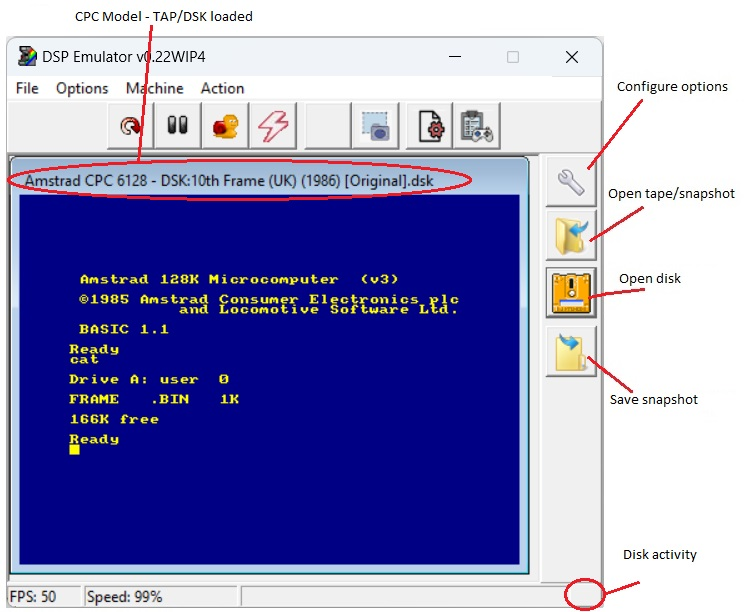
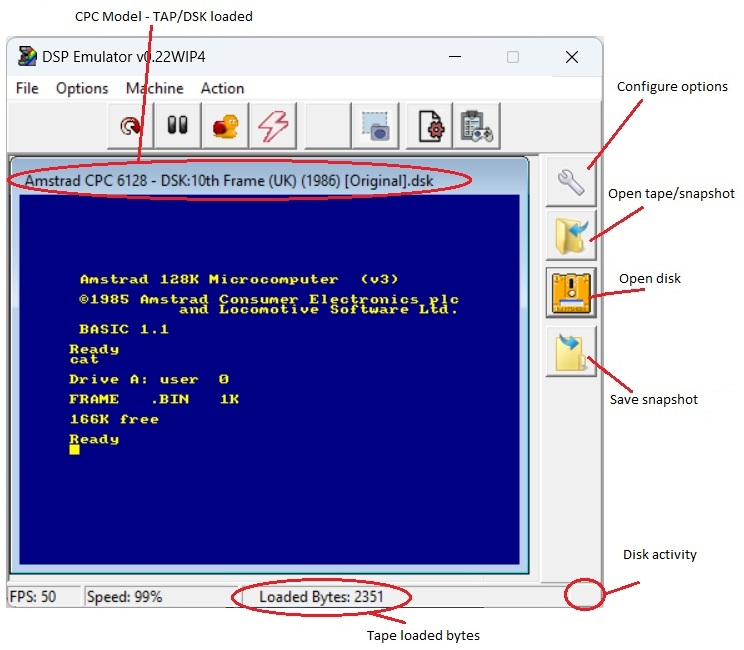
DSP guide v0.004

diff --git a/DSP small guide/DSP Emulator small guide.md b/DSP small guide/DSP Emulator small guide.md
@@ -2,13 +2,14 @@
 
 This is a small guide for use DSP Emulator.<br>
 The emulator is designed to be easy to use, there are no complicated options, everything is designed to be "plug and play".<br>
-Just a couple of definitions:<br>
--ROMs --> It means Read-Only-Memory, it's just a program data, video data, graphics data, etc. recorded in a single chip. Thanks to clever people, this data is extracted (some times it's very hard!) and saved into a file. If you put all files from the game into a zip, you have a 'set', and that's what you need to play a game.<br>
--Samples --> Many older arcade games use analog devices to play sounds and music, this is very hard to emulate, so we use 'samples' (Mario Bros, Donkey Kong, Galaxian...). A sample it's a small piece of recorded sound directly from the arcade, and played at the right moment, it looks like the original sound. Like ROMs, you only need to put them all together in a single zip.
+Just a couple of definitions:
+- ROMs --> It means Read-Only-Memory, it's just a program data, video data, graphics data, etc. recorded in a single chip. Thanks to clever people, this data is extracted (some times it's very hard!) and saved into a file. If you put all files from the game into a zip, you have a 'set', and that's what you need to play a game.
+- Samples --> Many older arcade games use analog devices to play sounds and music, this is very hard to emulate, so we use 'samples' (Mario Bros, Donkey Kong, Galaxian...). A sample it's a small piece of recorded sound directly from the arcade, and played at the right moment, it looks like the original sound. Like ROMs, you only need to put them all together in a single zip.
 
 <b>1-. Main menu</b>
 
 ------
+
 Here you can set the main options, select the arcade game, console, computer to play, redefine controls, video settings...
 
 <img src="dsp_main.jpg" width="50%" height="50%">
@@ -61,7 +62,7 @@ All the options here are the same that you can select in the main menu, except t
 
 <img src="dsp_config2.jpg" width="50%" height="50%">
 
-Here you can select the folder where the need files or the output files will reside.
+Here you can select the folder where the need files or the output files will reside.<br>
 Press the button with three dots '...' for select the new folder.<br>
 On the Arcade option, you can add extra folders, splitted with semicolons, for example 'c:\folder1;d:\roms\folder2'
 
@@ -69,7 +70,7 @@ On the Arcade option, you can add extra folders, splitted with semicolons, for e
 
 <img src="dsp_config3.jpg" width="50%" height="50%">
 
-Here you can select the controls for all systems. If you have joystick(s) connected, you can select the device from the joystick list.
+Here you can select the controls for all systems. If you have joystick(s) connected, you can select the device from the joystick list.<br>
 If keyboard is selected and you want to change a control, just press the button and a new window will be show. Select the key from the virtual keyboard.
 
 <img src="dsp_config_key.jpg" width="50%" height="50%">
@@ -92,7 +93,7 @@ It's useful to check missing ROM files, missing samples, broken files, etc.
 
 Here you can enable/disable autofire.<br>
 Instead of pressing insanely the fire button, you can select autofire and the emulator will make the magic, emulating the repetitive pressing of the button.<br>
-You can enable/disable each button of both players, and applies for any type of control, keyboard or joystick.
+You can enable/disable any button of both players, and applies for any type of control, keyboard or joystick.
 
 
 <b>1.2-. List menu</b>
@@ -107,7 +108,7 @@ You can use the sort options to filter the list:
 - Computers --> Show only computers
 - Consoles --> Show only consoles
 - Game & Watch --> Show W&G games
-- Arcade --> Show arcade games, you can also filter for arcade type
+- Arcade --> Show arcade games, you can also filter for arcade type:
 	+ Sport
 	+ Run & Gun
 	+ Shot
@@ -118,9 +119,9 @@ You can use the sort options to filter the list:
 You can see the availability of the systems ROMs, there are three options
 - Yes --> The ROMs are available, you can play the system
 - No --> The ROMs are not available, you can't play
-- N/A --> The system don't use ROMs, you can play it
+- N/A --> The system don't use ROMs, you can play it, but you need extra files for playing, for example a console cartridge.
 
-On the right side you can see a small info of the selected system and a preview picture
+On the right side you can see a small info of the selected system and a preview picture.
 
 <b>2-. Computers</b>
 
@@ -132,23 +133,37 @@ There are four computer systems that DSP can emulate:
 - Commodore 64
 - Oric series
 
-Commodore and Oric, can only open tapes at this moment, you can go to the 'tape menu' for more info.
+Commodore and Oric, can only open tapes at this moment, you can go to the 'tape menu' for more info about tape window.
 
-<b>2.1-. Spectrum options</b>
+**2.1-. Spectrum options**
 
-------
 <img src="dsp_spectrum.jpg" width="50%" height="50%">
 
 
-<b>2.2-. Amstrad CPC options</b>
+**2.2-. Amstrad CPC options**
 
-------
 <img src="dsp_cpc.jpg" width="50%" height="50%">
 
 
-<b>2.3-. Tape menu</b>
+**2.3-. Tape window**
 
-------
+All the computers emulated support tape loading, and all use the same window for control virtual tape.<br>
+When you open a tape, the tape window will be show.
+
+<img src="dsp_tape.jpg" width="50%" height="50%">
+
+You can play/pause tape, open a new one and close virtual tape window.<br>
+In this window, use the mouse for select the tape block you want, and the emulator will start playing.<br>
+Some computers have auto-start, Spectrum, Amstrad CPC and Commodore 64 will start/stop the tape automatically.
+
+**2.4-. Disk window**
+
+When you choose a system that supports disk, a new window will open.
+
+<img src="dsp_disk.jpg" width="50%" height="50%">
+
+Here you can browse your drive, then select a disk image.<br>
+If the disk image is a zip file, you can see the content of the file, and if there is more than a virtual disk, you can select the one you need.
 
 <b>3-. Arcade</b>
 
@@ -165,38 +180,21 @@ The only options you need to change are 'DIPs switches', the are like configure 
 
 ------
 
-
-<b>4.1-. NES</b>
-
-------
+**4.1-. NES**
 
 <img src="dsp_nes.jpg" width="50%" height="50%">
 
-
-
-<b>4.2-. Sega Master System</b>
-
-------
+**4.2-. Sega Master System**
 
 <img src="dsp_sms.jpg" width="50%" height="50%">
 
-
-
-<b>4.3-. Gameboy/Gameboy Color</b>
-
-------
+**4.3-. Gameboy/Gameboy Color**
 
 <img src="dsp_gb.jpg" width="50%" height="50%">
 
-
-
-<b>4.4-. ColecoVision</b>
-
-------
+**4.4-. ColecoVision**
 
 <img src="dsp_coleco.jpg" width="50%" height="50%">
-
-
 
 <b>5-. Game & Watch</b>
 
